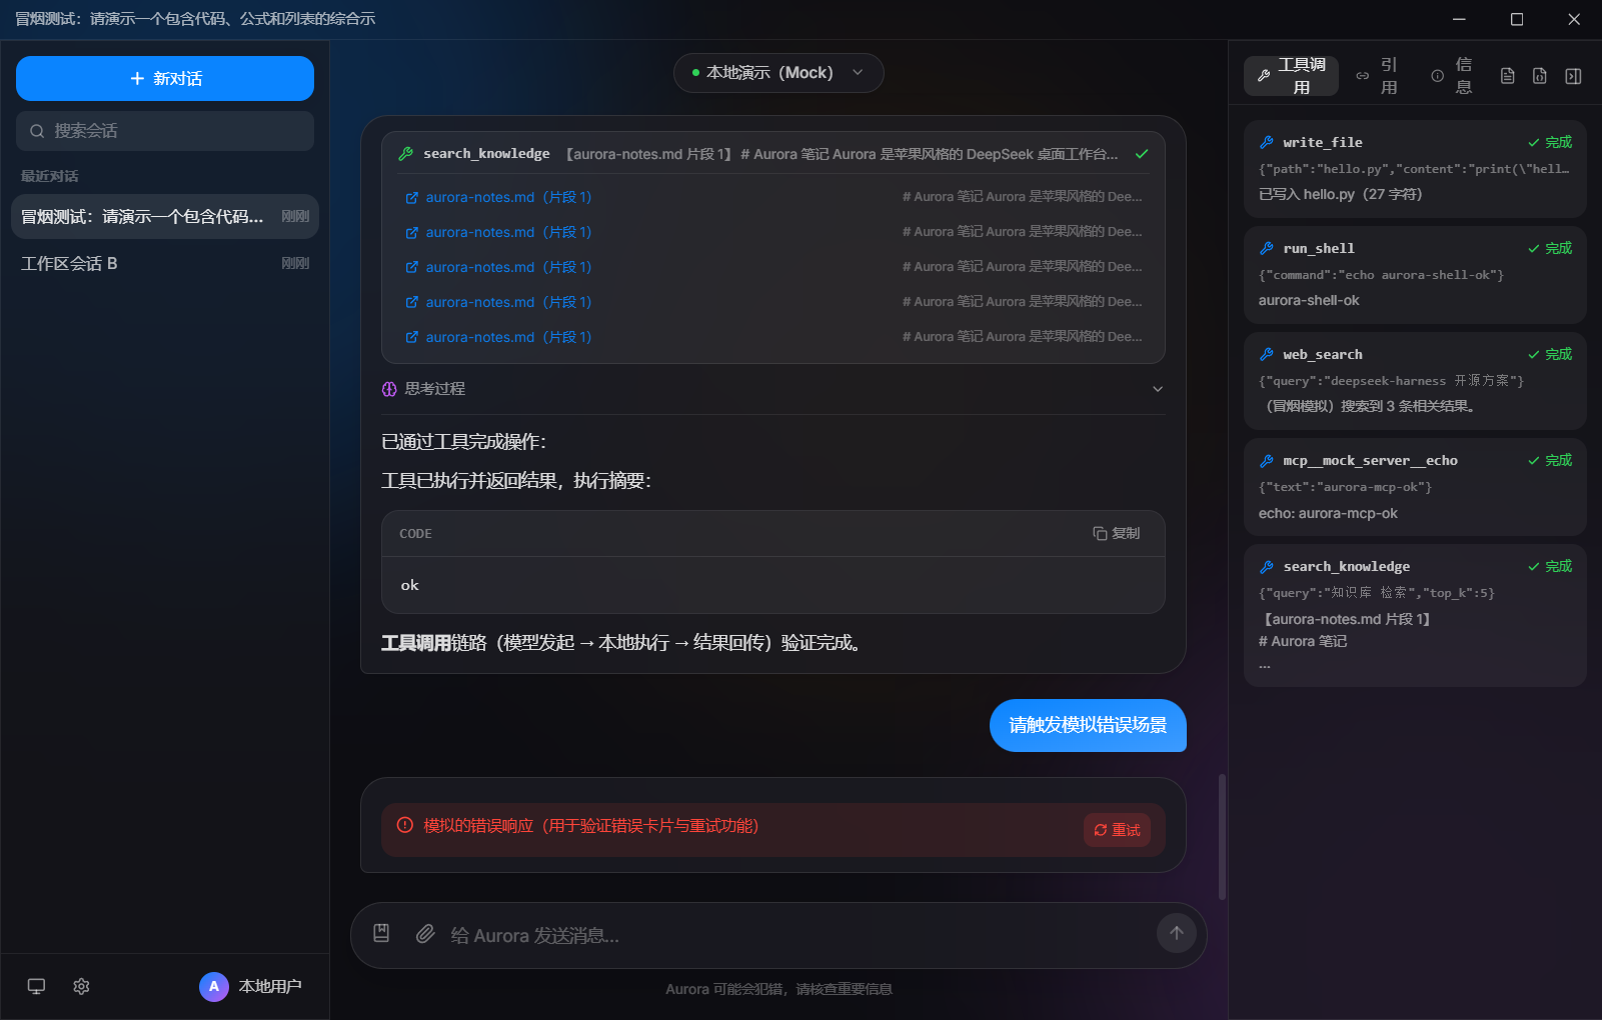
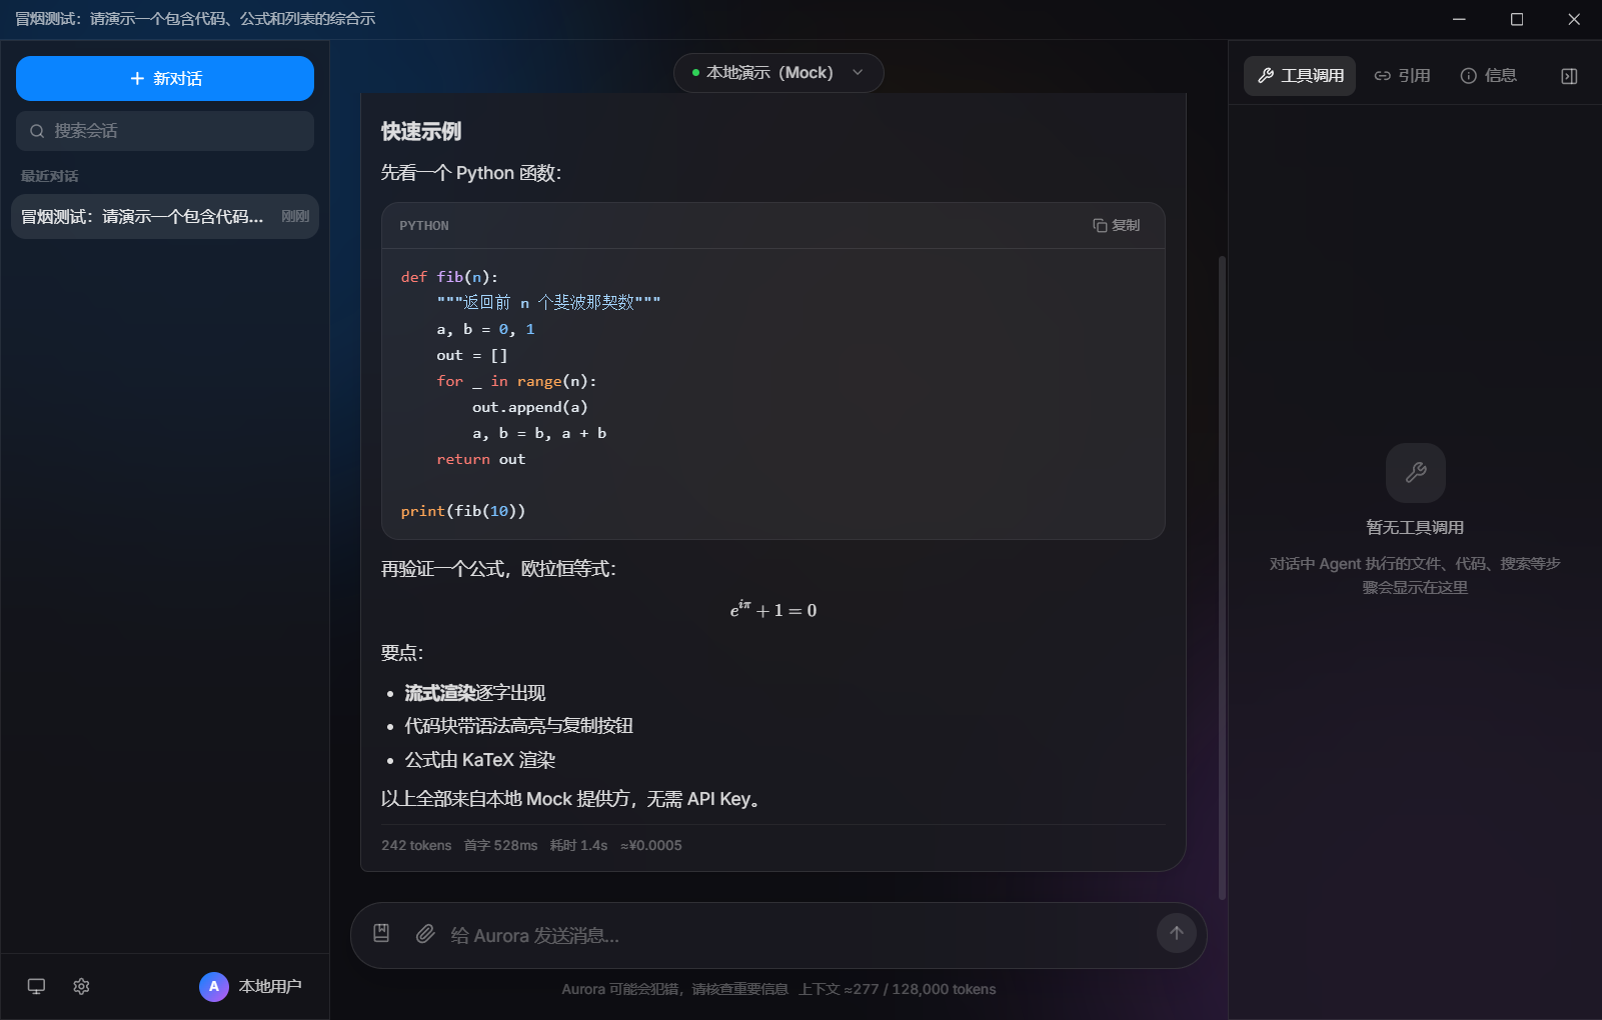
docs(screenshots): 更新 README 截图，并重构冒烟截图时机为第一轮对话完成时
变更内容：
1. 冒烟截图从全流程结束后提前到第一轮 Mock 对话完成时立即执行，
   此时界面仅含一条用户提问与完整富文本回复（代码块/公式/列表/思维链），
   无测试痕迹，更贴近真实使用场景，适合作为开源展示图。
2. 第二阶段（中途停止测试）启动延迟由 0.5s 调整为 4s，
   为截图留出窗口，不影响断言语义。
3. 深浅色截图与亮度采样在同一时机完成，DOM 审计前重新切入深色，
   保持 darkClass 断言前提不变。
4. docs/screenshots 下的 README 展示图同步更新为最新界面
   （Windows 风格窗口按钮、无 header 导出图标、上下文指示器等）。

验证：开发版冒烟全绿（12 阶段 100+ 断言，新增 shotsTaken 断言）。

diff --git a/electron/main.ts b/electron/main.ts
@@ -593,6 +593,37 @@ async function runSmoke(w: BrowserWindow, errors: string[]): Promise<void> {
   report.proxySettingOk = getSetting('proxyUrl') === 'http://127.0.0.1:7890'
   setSetting('proxyUrl', '')
 
+  // ============ 展示截图：第一轮 Mock 对话完成后立即截取 ============
+  // 此时界面干净（一条提问 + 完整富文本回复），最接近真实使用场景，
+  // 供 README 与开源展示使用；随后继续完整 12 阶段审计。
+  let chatDoneResolve: (() => void) | null = null
+  const chatDoneSignal = new Promise<void>((resolve) => {
+    chatDoneResolve = resolve
+  })
+  ipcMain.on('smoke:chat-done', () => {
+    if (chatDoneResolve) {
+      chatDoneResolve()
+      chatDoneResolve = null
+    }
+  })
+  await Promise.race([chatDoneSignal, new Promise((r) => setTimeout(r, 30000))])
+  nativeTheme.themeSource = 'light'
+  await new Promise((r) => setTimeout(r, 1200))
+  const light = await w.webContents.capturePage()
+  fs.writeFileSync(path.join(shotsDir, 'smoke-light.png'), light.toPNG())
+  nativeTheme.themeSource = 'dark'
+  await new Promise((r) => setTimeout(r, 1000))
+  const dark = await w.webContents.capturePage()
+  fs.writeFileSync(path.join(shotsDir, 'smoke-dark.png'), dark.toPNG())
+  const lightStats = sampleStats(light, { x: 0, y: 0, w: 1280, h: 820 })
+  const darkStats = sampleStats(dark, { x: 0, y: 0, w: 1280, h: 820 })
+  report.lightMeanLum = +lightStats.mean.toFixed(3)
+  report.lightVariance = +lightStats.variance.toFixed(4)
+  report.darkMeanLum = +darkStats.mean.toFixed(3)
+  report.shotsTaken = true
+  // 恢复浅色，让后续阶段在浅色下运行（audit 前再切深色）
+  nativeTheme.themeSource = 'light'
+
   // 等待渲染层完成三阶段验证：① Mock 完整流式 ② 中途停止截断 ③ 会话切换/持久化
   let stopVerified: { stoppedEarly: boolean; errored: boolean } | null = null
   ipcMain.on('smoke:stop-verified', (_e, p) => {
@@ -795,27 +826,11 @@ async function runSmoke(w: BrowserWindow, errors: string[]): Promise<void> {
   })
   await Promise.race([errDone, new Promise((r) => setTimeout(r, 40000))])
   report.errorVerified = errorVerified
-
-  // 浅色阶段
-  nativeTheme.themeSource = 'light'
-  await new Promise((r) => setTimeout(r, 1200))
-  const light = await w.webContents.capturePage()
-  fs.writeFileSync(path.join(shotsDir, 'smoke-light.png'), light.toPNG())
-
-  const lightStats = sampleStats(light, { x: 0, y: 0, w: 1280, h: 820 })
-  report.lightMeanLum = +lightStats.mean.toFixed(3)
-  report.lightVariance = +lightStats.variance.toFixed(4)
-
-  // 深色阶段
-  nativeTheme.themeSource = 'dark'
-  await new Promise((r) => setTimeout(r, 1000))
-  const dark = await w.webContents.capturePage()
-  fs.writeFileSync(path.join(shotsDir, 'smoke-dark.png'), dark.toPNG())
-  const darkStats = sampleStats(dark, { x: 0, y: 0, w: 1280, h: 820 })
-  report.darkMeanLum = +darkStats.mean.toFixed(3)
   report.globalShortcut = globalShortcut.isRegistered('CommandOrControl+Shift+A')
 
-  // DOM 审计
+  // DOM 审计（深色阶段执行，与 darkClass 断言保持一致）
+  nativeTheme.themeSource = 'dark'
+  await new Promise((r) => setTimeout(r, 800))
   const dom = (await w.webContents.executeJavaScript(DOM_AUDIT, true)) as Record<
     string,
     any
@@ -823,6 +838,7 @@ async function runSmoke(w: BrowserWindow, errors: string[]): Promise<void> {
   report.dom = dom
 
   // ---- 断言 ----
+  if (report.shotsTaken !== true) failures.push('展示截图未生成')
   if (lightStats.mean < 0.55) failures.push('浅色界面整体偏暗')
   if (darkStats.mean > 0.28) failures.push('深色界面整体偏亮')
   if (!(lightStats.mean > darkStats.mean + 0.15))

diff --git a/src/components/ChatArea.tsx b/src/components/ChatArea.tsx
@@ -345,6 +345,7 @@ export default function ChatArea({ chat, settingsOpen, onSmokePhase2Done }: Chat
     const allDone = messages.length >= 2 && messages.every((m) => m.status !== 'streaming')
     if (!allDone) return
     phase2.current = true
+    // 延迟 4s 启动：为主进程留出展示截图窗口（截图在第一轮对话完成后立即执行）
     setTimeout(() => {
       send('第二次冒烟：测试停止生成功能')
       // 停止计时器相对 send 触发，避免负载抖动下打在空流上
@@ -352,7 +353,7 @@ export default function ChatArea({ chat, settingsOpen, onSmokePhase2Done }: Chat
         phase2StopClicked.current = true
         stop()
       }, 400)
-    }, 500)
+    }, 4000)
   }, [messages, send, stop])
 
   useEffect(() => {
